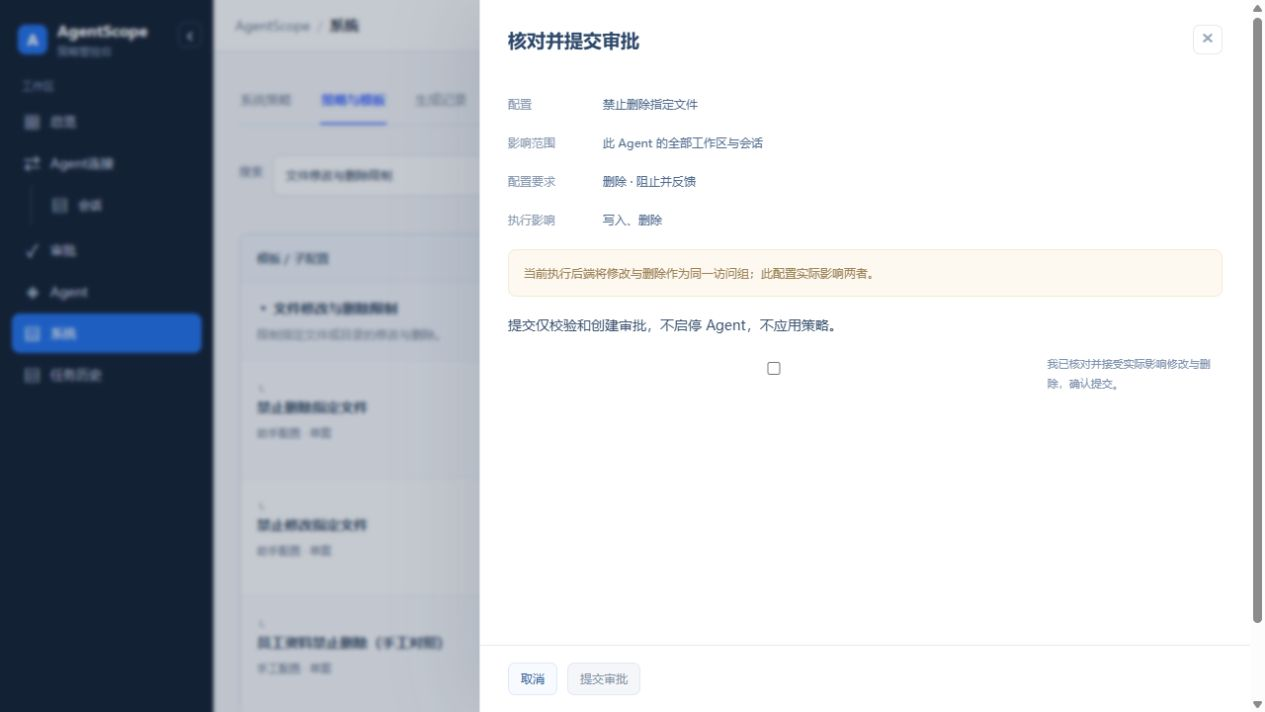
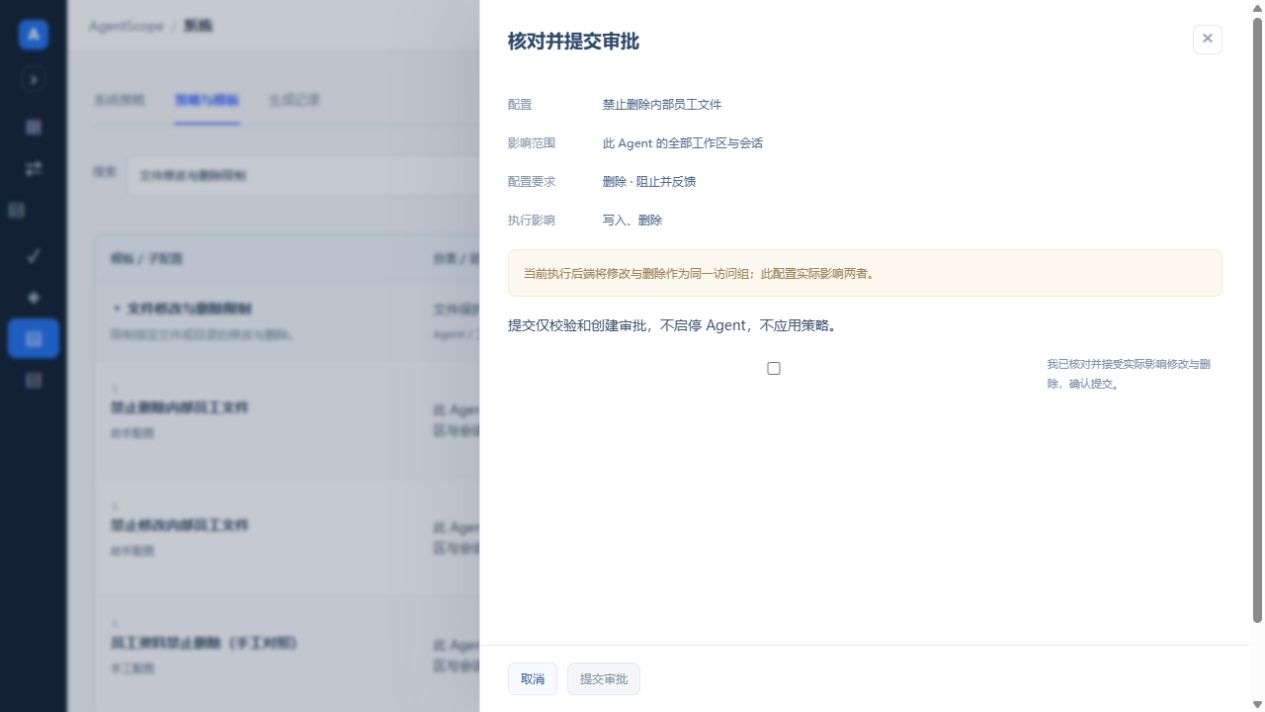
docs: record template configuration release and preserved authority

diff --git a/docs/REVIEW/REVIEW-20261014-AgentScope-template-bound-policy-agent.md b/docs/REVIEW/REVIEW-20261014-AgentScope-template-bound-policy-agent.md
@@ -38,4 +38,8 @@
 
 ## 正式发布核验
 
-待发布前最后核对。发布只替换 API/UI，保留 Broker、已有 Agent 身份与策略；不执行 Agent 启停、批准或应用。发布脚本先核对运行源码与整合基线、当前权限/运行身份和其他端口，保留回滚，并在 API 健康后再切换界面入口。最终结果与本地提交在本节追加；未获新许可不推送 GitHub。
+正式发布通过，时间 2026-10-14T21:30:05.225915+08:00。运行版本 `fddc532aa8cabfeb41b8d6a09793a74529c51836`，API PID 150030，目录 `/opt/agentscope-template-configurations-20261014-212944`。API 切换用时 1.44 秒；Broker 身份、既有 Agent 的 generation/PID/domain/策略及系统基准完全一致，18000/18004 未变。没有启停 Agent、恢复权限、批准或应用策略。
+
+Windows 的 127.0.0.1 健康接口 HTTP 200，读取用时约 0.005 秒；HTTP 入口 SHA-256 与发布目录一致。正式页面显示 27 个模板、4 项已有系统配置的只读子记录；新正式子配置数量为零，没有把隔离模型验收结果写进正式库。浏览器已刷新至新界面，保留全部模板目录。界面新增没有改动原安全总览。
+
+[发布结果](evidence/template-configurations-20261014/production-release.json)、[正式页面](evidence/template-configurations-20261014/production-template-children.png)。代码与文档已本地提交，未推送 GitHub。

diff --git a/docs/BUG/BUG-20261014-AgentScope-template-instance-generation.md b/docs/BUG/BUG-20261014-AgentScope-template-instance-generation.md
@@ -1,6 +1,6 @@
 # BUG：模板没有持久子配置，助手生成链路与手工参数配置脱节
 
-日期：2026-10-14。状态：源码修复与隔离验收通过，正式发布结果见 REVIEW。
+日期：2026-10-14。状态：已修复、隔离验收通过并发布到 18003；底层能力边界继续保留。
 
 复现：旧“策略与模板”页面只有六个静态样例，参数候选通过客户端 DSL handoff；助手长期基线使用自然语言到意图/IR 转换。不能在同一静态模板下持久查看多个独立配置，也没有强制的模板 ID/版本填参入口。用户分别提出删除与修改限制时，界面未提供保留各自意图的子记录组织方式。
 
